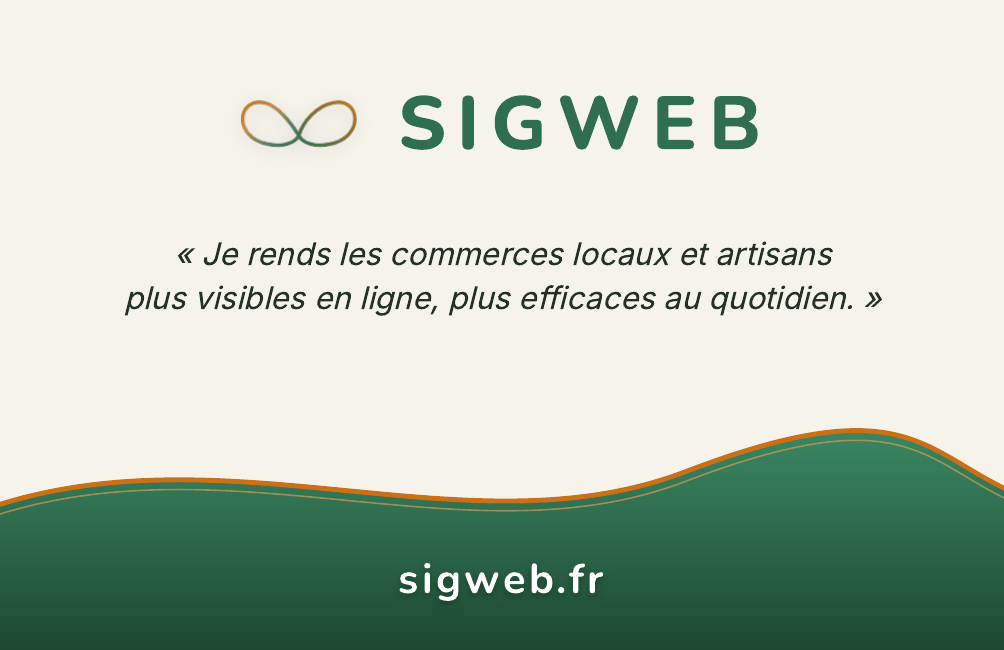
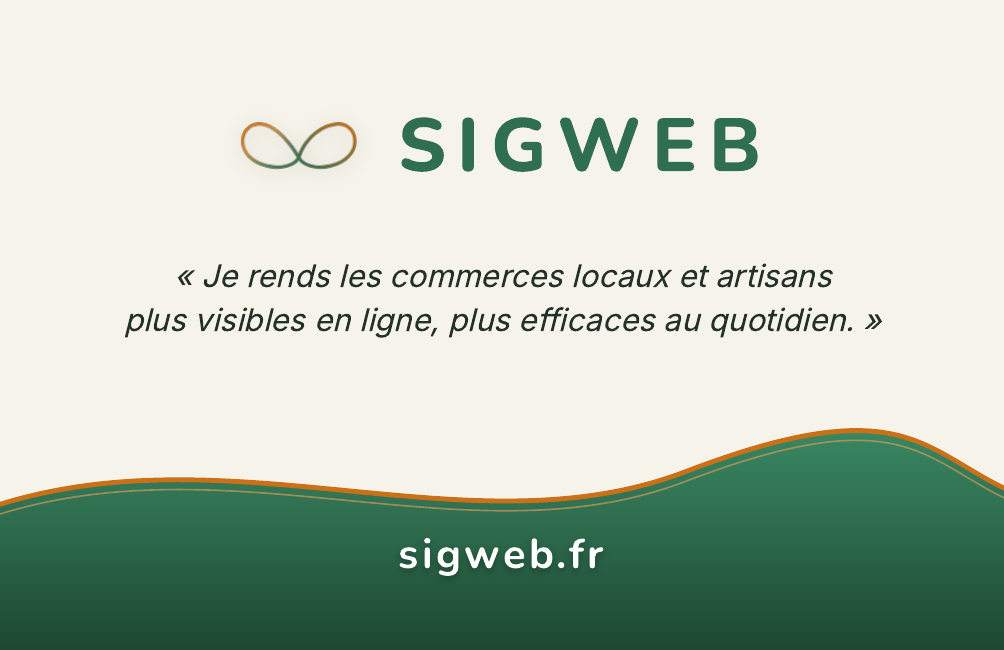
fix(carte-visite): augmente les marges pour respecter la zone de securite Vistaprint
L'editeur Vistaprint affiche un cadre en pointilles verts (zone de
securite ~5mm depuis les bords) au-dela duquel les elements peuvent
etre coupes a l'impression. Toutes les marges internes elargies pour
y rester :

Recto :
- card padding 5mm 6mm 0 -> 7mm 8mm 0 (logo + citation)
- recto__url bottom 3.5mm -> 5.5mm (sigweb.fr remonte)

Verso :
- verso__left top 6mm -> 7mm, left 4mm -> 6mm, width 49mm -> 47mm
- verso__right width 28mm -> 30mm, padding 4mm 2.5mm -> 6mm 4.5mm
  (SIGWEB descend, sigweb.fr remonte, QR centre dans la zone)

Les fonds (vague verte recto, courbe verte verso) continuent de
toucher les bords : c'est volontaire (effet bord a bord apres coupe).

diff --git a/public/carte-visite/v4.html b/public/carte-visite/v4.html
@@ -56,7 +56,10 @@
     display: flex;
     flex-direction: column;
     align-items: center;
-    padding: 5mm 6mm 0;
+    /* Zone de securite Vistaprint (~5mm depuis les bords) : on garde
+       tous les elements (logo, texte, url) bien a l'interieur du cadre
+       en pointilles vert affiche dans l'editeur Vistaprint. */
+    padding: 7mm 8mm 0;
   }
 
   .recto__brand {
@@ -104,7 +107,7 @@
 
   .recto__url {
     position: absolute;
-    bottom: 3.5mm;
+    bottom: 5.5mm;
     left: 0;
     right: 0;
     text-align: center;
@@ -128,9 +131,10 @@
 
   .verso__left {
     position: absolute;
-    top: 6mm;
-    left: 4mm;
-    width: 49mm;
+    /* Marges respectant la zone de securite Vistaprint (~5mm) */
+    top: 7mm;
+    left: 6mm;
+    width: 47mm;
     color: var(--white);
   }
 
@@ -221,14 +225,16 @@
     position: absolute;
     top: 0;
     right: 0;
-    width: 28mm;
+    width: 30mm;
     height: 100%;
     display: flex;
     flex-direction: column;
     align-items: center;
     justify-content: flex-end;
     gap: 2.5mm;
-    padding: 4mm 2.5mm 4mm;
+    /* Padding plus large pour rester dans la zone de securite Vistaprint
+       (logo SIGWEB en haut, sigweb.fr en bas, QR au milieu). */
+    padding: 6mm 4.5mm 6mm;
     text-align: center;
   }
 